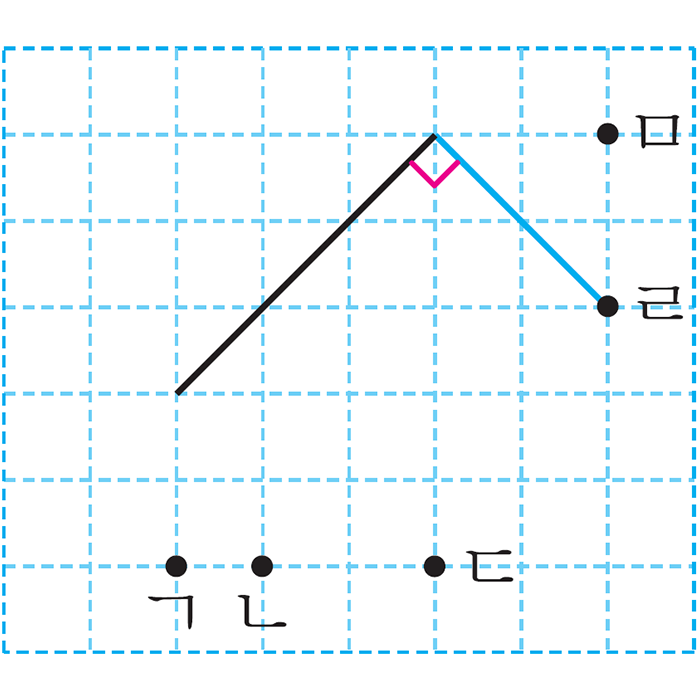
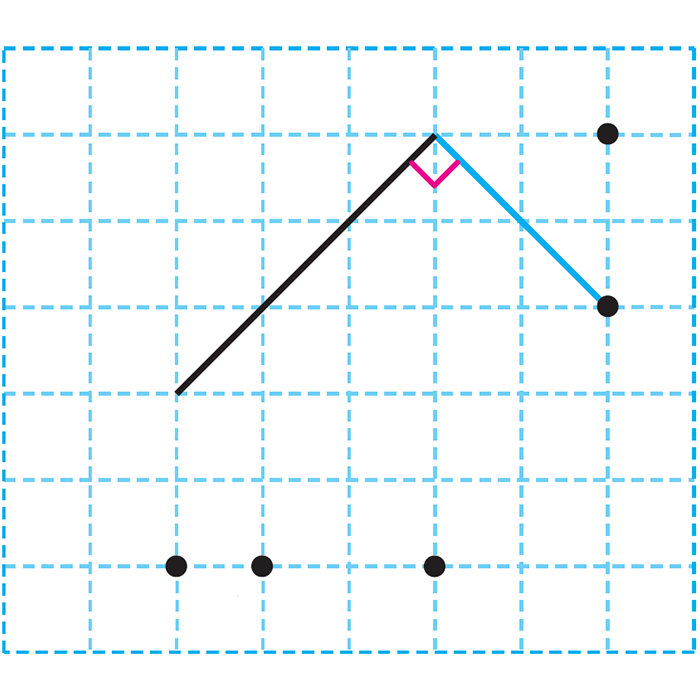
4학년 수정

diff --git a/E-curri04-math-H_2022/41/suh_h_0401_02_0009/suh_h_0401_02_0009_201_1.html b/E-curri04-math-H_2022/41/suh_h_0401_02_0009/suh_h_0401_02_0009_201_1.html
@@ -29,7 +29,7 @@
 		.innerTab_2 .--answerImg{position: absolute;top: 0;left: 0;width: 100%;height: 100%;}
 
 		.page_2 .--flex{display: flex;align-items: flex-end;justify-content: space-between; height: 400px;}
-		.page_2 .lineBox{width: 600px; height: 350px;}
+		.page_2 .lineBox{width: 600px; height: 350px;background:url("./images/suh_h_0401_02_0009_201_1/suh_h_0401_02_0009_201_1.png") no-repeat 50% 50% / auto 330px}
 		.page_2 .toggle{min-width:120px;}
 
 		.page_3 .--text{width: 300px;text-align: center;}

diff --git a/E-curri04-math-H_2022/41/suh_h_0401_02_0008/suh_h_0401_02_0008_201_1.html b/E-curri04-math-H_2022/41/suh_h_0401_02_0008/suh_h_0401_02_0008_201_1.html
@@ -29,7 +29,7 @@
 		.innerTab_2 .--answerImg{position: absolute;top: 0;left: 0;width: 100%;height: 100%;}
 
 		.page_2 .--flex{display: flex;align-items: flex-end;justify-content: space-between; height: 400px;}
-		.page_2 .lineBox{width: 600px; height: 350px;}
+		.page_2 .lineBox {width: 600px; height: 350px;background:url("./images/suh_h_0401_02_0008_201_1/suh_h_0401_02_0008_201_1.png") no-repeat 50% 50% / auto 330px}
 
 		.page_3 .--text{width: 300px;text-align: center;}
 

diff --git a/dvd_4_1_h/contents/lesson02/ops/2/ifr-suh_h_0401_02_0008_201_1.html b/dvd_4_1_h/contents/lesson02/ops/2/ifr-suh_h_0401_02_0008_201_1.html
@@ -35,7 +35,7 @@
   left: 0;
   width: 100%;
   height: 100%;
-  /* background: url(images/2_4/2_4_6_answer.svg) center / contain no-repeat; */
+   background: url(images/0401_02/suh_h_0401_02_0008_201_1.png) center / contain no-repeat;
 }
 
 

diff --git a/dvd_4_1_h/contents/lesson02/ops/2/ifr-suh_h_0401_02_0009_201_1.html b/dvd_4_1_h/contents/lesson02/ops/2/ifr-suh_h_0401_02_0009_201_1.html
@@ -35,7 +35,7 @@
   left: 0;
   width: 100%;
   height: 100%;
-  /* background: url(images/2_4/2_4_6_answer.svg) center / contain no-repeat; */
+   background: url(images/0401_02/suh_h_0401_02_0009_201_1.png) center / contain no-repeat;
 }
 
 
